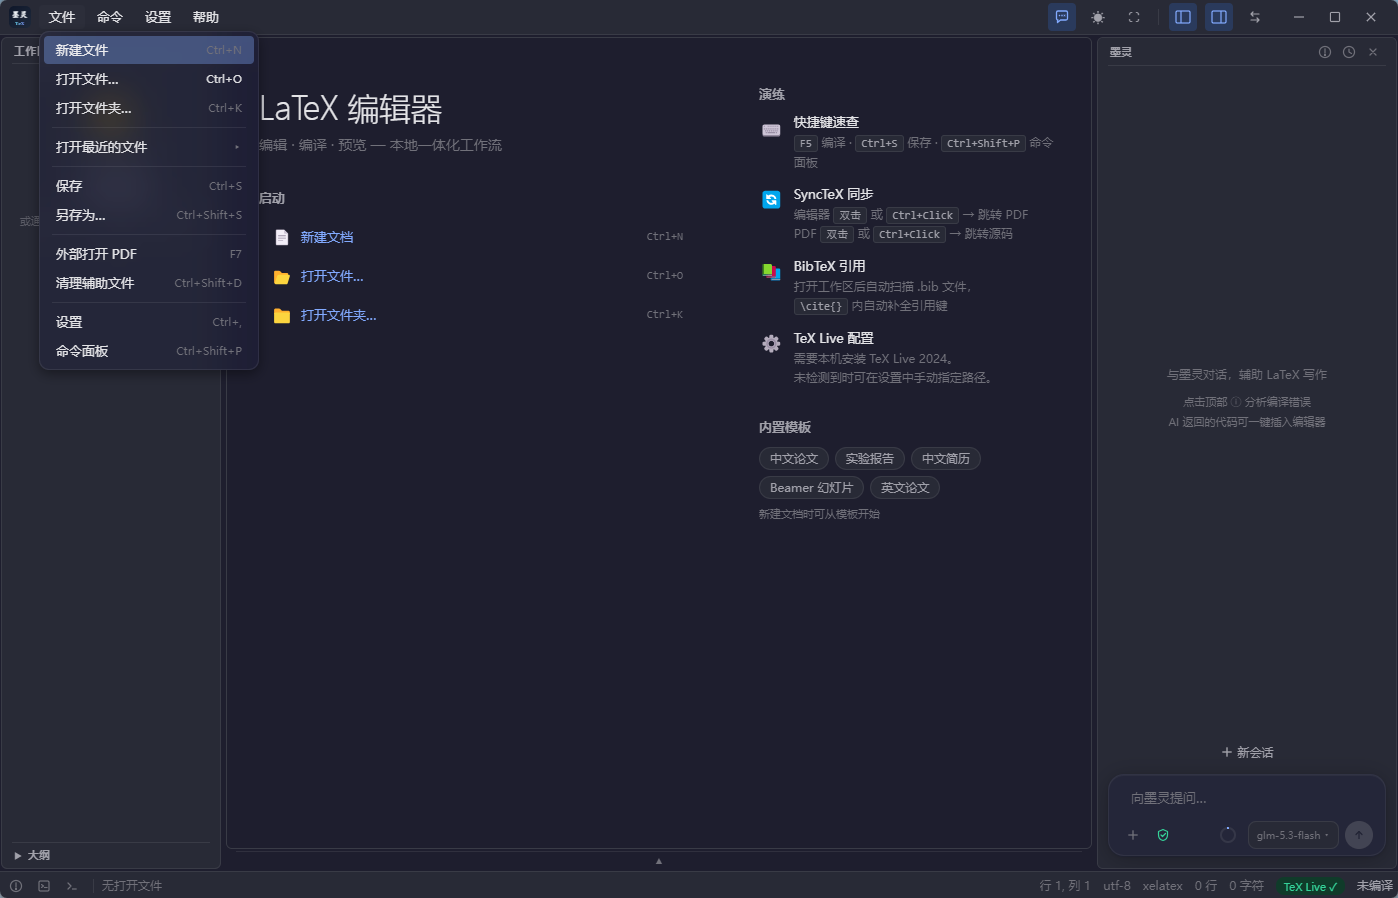
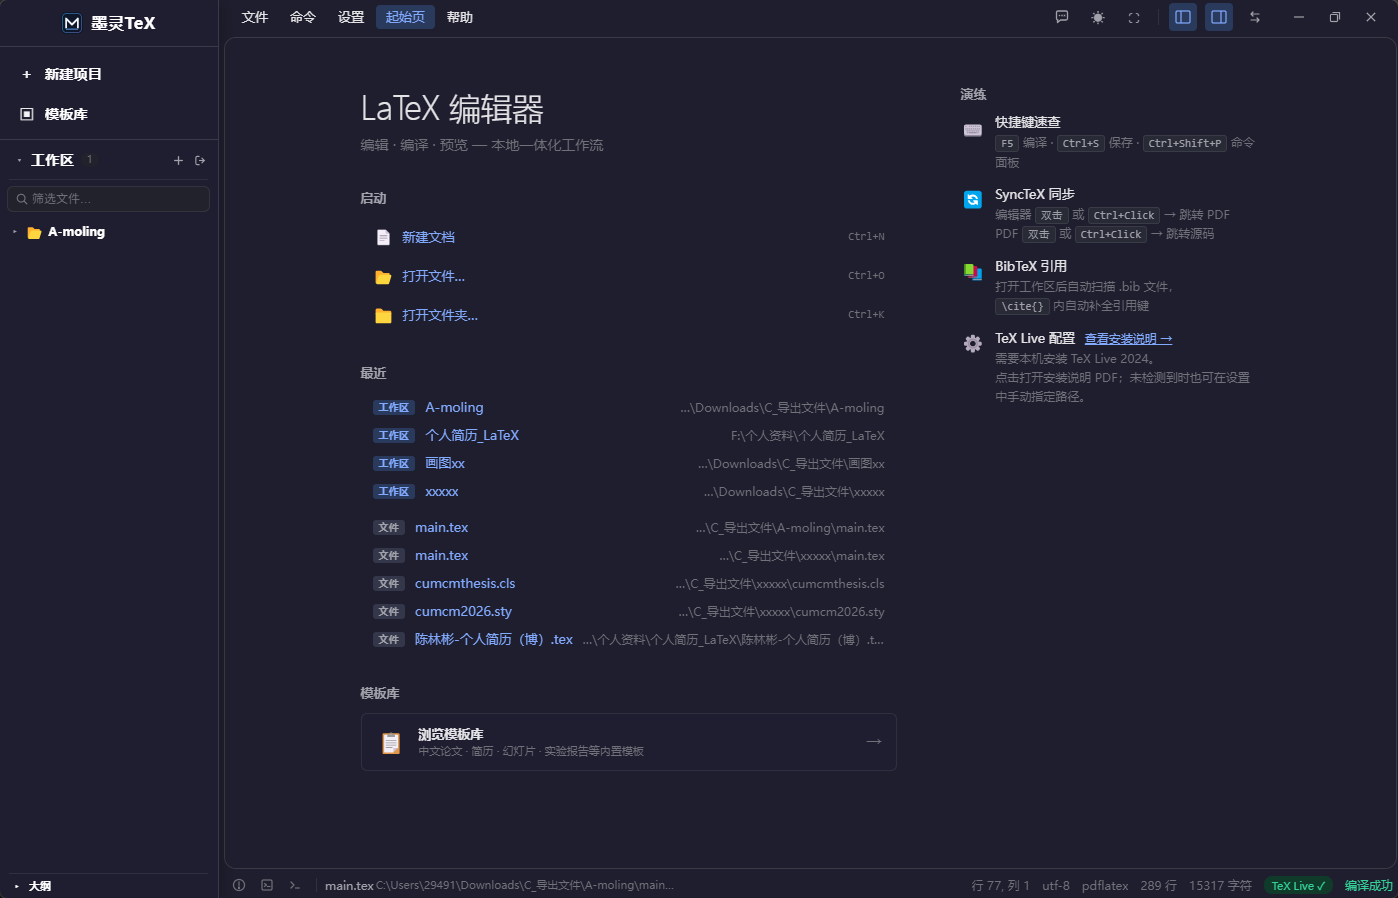
docs: refresh website screenshots with v2.0.0 UI and usage examples

diff --git a/docs/index.html b/docs/index.html
@@ -101,6 +101,9 @@ nav{position:fixed;top:0;width:100%;z-index:100;background:rgba(255,255,255,.8);
 .uc p{font-size:13px;color:#64748b;line-height:1.6}
 .uc-tags{display:flex;gap:5px;margin-top:10px;flex-wrap:wrap}
 .uc-tag{font-size:11px;padding:3px 10px;border-radius:10px;background:#eff6ff;color:#2563EB;font-weight:500}
+.uc-shot{margin:0 0 14px;border-radius:8px;overflow:hidden;border:1px solid #e2e8f0;background:#f8fafc}
+.uc-shot img{width:100%;display:block}
+.uc-shot .cap{padding:6px 10px;font-size:11px;color:#64748b;background:#f8fafc;border-top:1px solid #e2e8f0}
 
 .ct{max-width:760px;margin:0 auto;border-collapse:separate;border-spacing:0;width:100%;font-size:13px;border-radius:10px;overflow:hidden;border:1px solid #e2e8f0;background:#fff}
 .ct th,.ct td{padding:12px 14px;text-align:center;border-bottom:1px solid #f1f5f9}
@@ -171,10 +174,10 @@ footer a{color:#2563EB}
 
 <div class="shots">
   <div class="shot-card an d2">
-    <img src="ui-main.png" alt="墨灵TeX 主界面" onerror="this.parentElement.style.height='280px';this.parentElement.style.background='#f1f5f9';this.parentElement.innerHTML='<div style=\'color:#94a3b8;display:flex;align-items:center;justify-content:center;height:100%\'>主界面</div>'">
+    <img src="ui-main.png" alt="墨灵TeX 主界面 · 起始页" onerror="this.parentElement.style.height='280px';this.parentElement.style.background='#f1f5f9';this.parentElement.innerHTML='<div style=\'color:#94a3b8;display:flex;align-items:center;justify-content:center;height:100%\'>主界面</div>'">
   </div>
   <div class="shot-card an d3">
-    <img src="ui-compile.png" alt="编译示例" onerror="this.parentElement.style.height='280px';this.parentElement.style.background='#f1f5f9';this.parentElement.innerHTML='<div style=\'color:#94a3b8;display:flex;align-items:center;justify-content:center;height:100%\'>编译预览</div>'">
+    <img src="ui-compile.png" alt="墨灵TeX 编译文档示例 · 源码与 PDF 同步" onerror="this.parentElement.style.height='280px';this.parentElement.style.background='#f1f5f9';this.parentElement.innerHTML='<div style=\'color:#94a3b8;display:flex;align-items:center;justify-content:center;height:100%\'>编译预览</div>'">
   </div>
 </div>
 
@@ -238,12 +241,18 @@ footer a{color:#2563EB}
 </section>
 
 <section class="sec sec-alt" id="scenarios">
-  <div class="sh an"><div class="st">应用场景</div><h2 class="st2">全场景覆盖</h2></div>
+  <div class="sh an"><div class="st">应用场景 · 使用范例</div><h2 class="st2">全场景覆盖</h2><p class="ss">真实界面截图：IEEE 会议论文、国赛 CUMCM、中文简历，均在墨灵TeX 内一键编译预览。</p></div>
   <div class="ug">
-    <div class="uc an d1"><h3>📝 毕业论文写作</h3><p>ctex 中文模板开箱即用，SyncTeX 源码与 PDF 快速定位，AI 润色段落、检查引用。</p><div class="uc-tags"><span class="uc-tag">ctex</span><span class="uc-tag">SyncTeX</span><span class="uc-tag">AI 润色</span></div></div>
-    <div class="uc an d2"><h3>📚 学术论文投稿</h3><p>内置 IEEE / Elsevier / Wiley 投稿骨架。BibTeX 自动管理参考文献，编译日志精准定位错误。</p><div class="uc-tags"><span class="uc-tag">IEEE</span><span class="uc-tag">Elsevier</span><span class="uc-tag">Wiley</span></div></div>
-    <div class="uc an d3"><h3>🏆 数学建模竞赛</h3><p>国赛 CUMCM 完整模板：封面、承诺书、示例图与参考文献结构，一键生成可编译项目。</p><div class="uc-tags"><span class="uc-tag">CUMCM</span><span class="uc-tag">示例图齐全</span></div></div>
-    <div class="uc an d4"><h3>💼 简历 / 课件 / 汇报</h3><p>多套中文/英文简历与 Beamer 幻灯片。模板创建后自动固定主文档与编译引擎。</p><div class="uc-tags"><span class="uc-tag">简历</span><span class="uc-tag">Beamer</span><span class="uc-tag">自动引擎</span></div></div>
+    <div class="uc an d1">
+      <div class="uc-shot"><img src="example-ieee.png" alt="使用范例：IEEE 会议论文" onerror="this.parentElement.style.height='140px';this.parentElement.innerHTML='<div style=\'color:#94a3b8;display:flex;align-items:center;justify-content:center;height:100%\'>IEEE 范例</div>'"><div class="cap">使用范例 · IEEE 会议论文</div></div>
+      <h3>📚 学术论文投稿</h3><p>内置 IEEE / Elsevier / Wiley 投稿骨架。BibTeX 自动管理参考文献，编译日志精准定位错误。</p><div class="uc-tags"><span class="uc-tag">IEEE</span><span class="uc-tag">Elsevier</span><span class="uc-tag">Wiley</span></div></div>
+    <div class="uc an d2">
+      <div class="uc-shot"><img src="example-cumcm.png" alt="使用范例：国家数学建模比赛论文" onerror="this.parentElement.style.height='140px';this.parentElement.innerHTML='<div style=\'color:#94a3b8;display:flex;align-items:center;justify-content:center;height:100%\'>国赛范例</div>'"><div class="cap">使用范例 · 国家数学建模比赛论文</div></div>
+      <h3>🏆 数学建模竞赛</h3><p>国赛 CUMCM 完整模板：封面、承诺书、示例图与参考文献结构，一键生成可编译项目。</p><div class="uc-tags"><span class="uc-tag">CUMCM</span><span class="uc-tag">示例图齐全</span></div></div>
+    <div class="uc an d3">
+      <div class="uc-shot"><img src="example-resume.png" alt="使用范例：创建简历" onerror="this.parentElement.style.height='140px';this.parentElement.innerHTML='<div style=\'color:#94a3b8;display:flex;align-items:center;justify-content:center;height:100%\'>简历范例</div>'"><div class="cap">使用范例 · 创建简历</div></div>
+      <h3>💼 简历 / 课件 / 汇报</h3><p>多套中文/英文简历与 Beamer 幻灯片。模板创建后自动固定主文档与编译引擎。</p><div class="uc-tags"><span class="uc-tag">简历</span><span class="uc-tag">Beamer</span><span class="uc-tag">自动引擎</span></div></div>
+    <div class="uc an d4"><h3>📝 毕业论文写作</h3><p>ctex 中文模板开箱即用，SyncTeX 源码与 PDF 快速定位，AI 润色段落、检查引用。</p><div class="uc-tags"><span class="uc-tag">ctex</span><span class="uc-tag">SyncTeX</span><span class="uc-tag">AI 润色</span></div></div>
   </div>
 </section>
 
